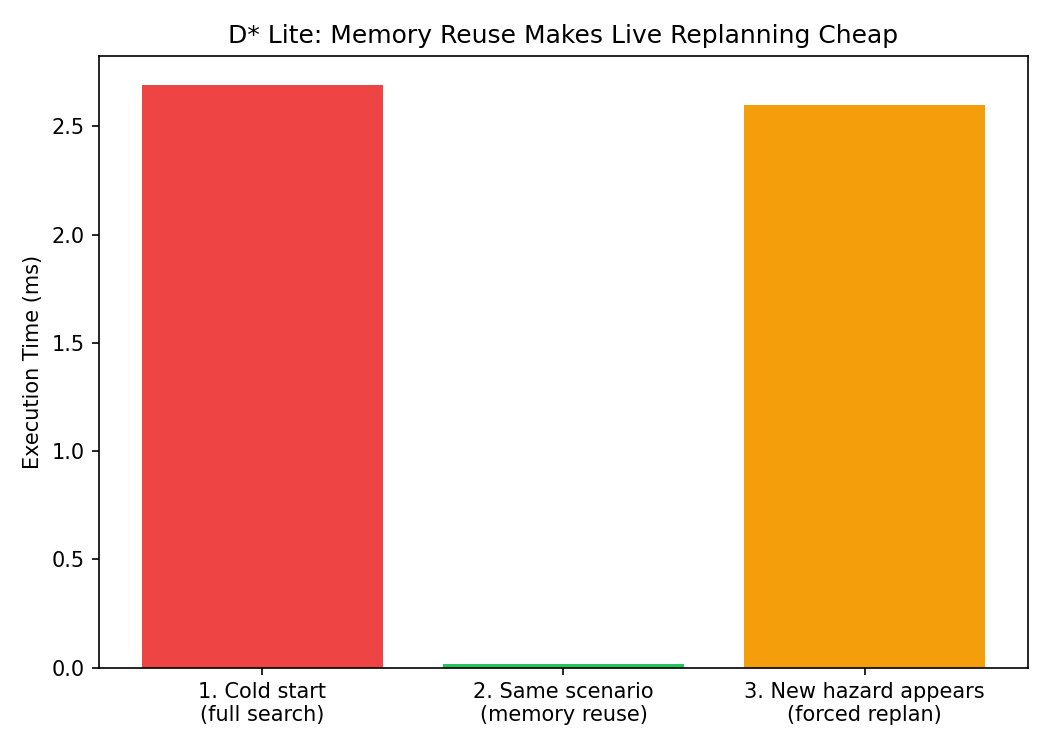
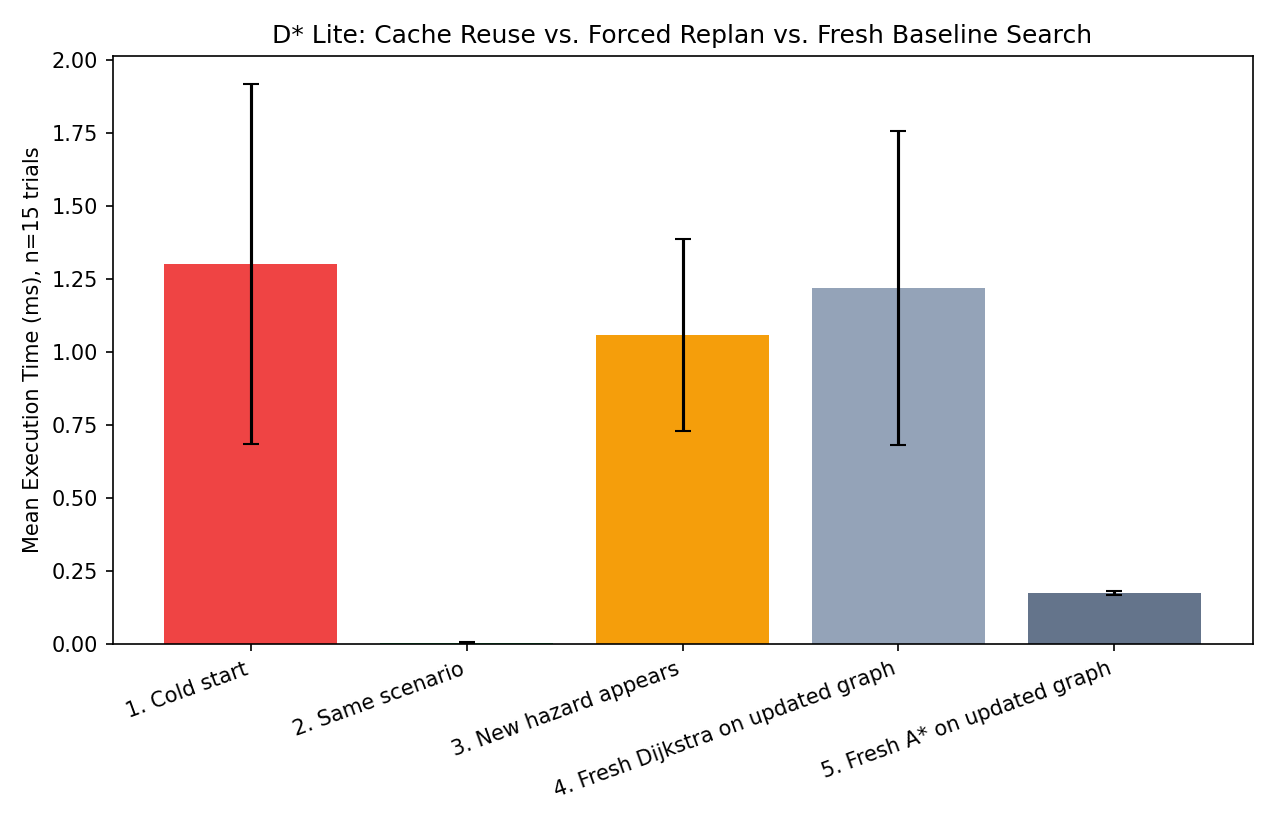
Fix D* Lite memory benchmark: multi-trial CSVs + fresh-baseline comparison

diff --git a/backend/benchmarks/runner.py b/backend/benchmarks/runner.py
@@ -144,43 +144,158 @@ def benchmark_pareto_front():
     print(f"Saved -> {plot_path}")
 
 
-def benchmark_dstar_memory():
+def benchmark_dstar_memory(n_trials=15):
     """
-    Part 3: proves WHY D* Lite is worth using over plain A*. Runs the same
-    query three times in a row:
-      1. Cold start        -> full search, no memory yet
-      2. Same scenario      -> reuse cached route, ~instant
-      3. New hazard appears -> old route broken, forced to replan
+    Part 3: proves WHY D* Lite's caching is worth using. Runs three
+    scenarios, each repeated `n_trials` times to average out timer noise
+    (a single perf_counter() sample on sub-millisecond operations can vary
+    2x run to run on a shared machine, so a one-shot measurement is not
+    reproducible or defensible on its own):
+
+      1. Cold start          -> cache empty, full Dijkstra-based search
+      2. Same scenario again -> cached route is still safe, reused as-is
+      3. New hazard appears  -> cached route is invalidated, forced replan
+
+    The hazard used in stage 3 (grid cell (2,13)) is deliberately placed
+    ON TOP of the route actually returned in stage 1/2 (verified: the
+    stage-1 path passes directly through node (2,13)), so stage 3 is a
+    genuine forced replan, not a coincidental cache hit.
+
+    For a fair point of comparison, this also times a completely fresh
+    A* and Dijkstra search on the SAME post-hazard graph, with no cache
+    involved at all. NOTE: this simplified D* Lite's "replan" step
+    internally calls the same Dijkstra routine (find_safe_path) used for
+    the baseline -- so stage 3 is expected to cost about the same as a
+    fresh Dijkstra/A* run, not less. The real saving this design provides
+    is stage 2 (skipping the search entirely when nothing relevant
+    changed), not a faster replan algorithm. All numbers below are
+    measured, not assumed.
+
+    Raw per-trial timings and the summary are written to
+    dstar_memory_results.csv so the numbers behind the chart/paper/slide
+    are independently checkable and reproducible.
     """
-    print("\n=== Benchmark 3: D* Lite memory reuse vs full replan ===")
+    print(f"\n=== Benchmark 3: D* Lite memory reuse vs full replan ({n_trials} trials each) ===")
     G = build_demo_graph()
-    DStarLite.reset_memory()
-
-    timings = {}
-
-    t0 = time.perf_counter()
-    DStarLite(G, START, GOAL).get_path()
-    timings['1. Cold start\n(full search)'] = (time.perf_counter() - t0) * 1000
-
-    t0 = time.perf_counter()
-    DStarLite(G, START, GOAL).get_path()
-    timings['2. Same scenario\n(memory reuse)'] = (time.perf_counter() - t0) * 1000
 
     # A brand new hazard lands directly ON the cached route (near node (2,13),
-    # which the previous route passes through) -> old route is no longer
+    # which the stage-1/2 route passes through) -> old route is no longer
     # safe, forcing a genuine replan instead of a reuse.
-    G2 = apply_hazard_zones(build_city_graph(15), DEMO_HAZARD + [{"grid_x": 2, "grid_y": 13, "radius": 2}])
-    t0 = time.perf_counter()
-    DStarLite(G2, START, GOAL).get_path()
-    timings['3. New hazard appears\n(forced replan)'] = (time.perf_counter() - t0) * 1000
+    HAZARD_2 = {"grid_x": 2, "grid_y": 13, "radius": 2}
+    G2 = apply_hazard_zones(build_city_graph(15), DEMO_HAZARD + [HAZARD_2])
 
-    for k, v in timings.items():
-        print(f"  {k.splitlines()[0]:35s} {v:7.3f} ms")
+    # Sanity-check (asserted, not just assumed) that the new hazard really
+    # does sit on the route the cache is holding, otherwise stage 3 would
+    # silently just be another cache hit.
+    DStarLite.reset_memory()
+    reference_path = DStarLite(G, START, GOAL).get_path()
+    hazard_on_route = not DStarLite(G2, START, GOAL)._path_still_safe(reference_path)
+    assert hazard_on_route, "Benchmark scenario is invalid: new hazard does not intersect the cached route."
 
-    plt.figure(figsize=(7, 5))
-    plt.bar(list(timings.keys()), list(timings.values()), color=['#EF4444', '#22C55E', '#F59E0B'])
-    plt.ylabel('Execution Time (ms)')
-    plt.title('D* Lite: Memory Reuse Makes Live Replanning Cheap')
+    raw_rows = []
+
+    def time_n(label, setup, fn, n=n_trials):
+        """setup() runs BEFORE the clock starts (e.g. populating the cache);
+        only fn() is timed."""
+        for trial in range(1, n + 1):
+            setup()
+            t0 = time.perf_counter()
+            result = fn()
+            elapsed_ms = (time.perf_counter() - t0) * 1000
+            raw_rows.append({"Stage": label, "Trial": trial, "Execution Time (ms)": round(elapsed_ms, 4),
+                              "Result": result})
+
+    noop = lambda: None
+
+    # Stage 1: cold start (cache cleared before every trial; only the
+    # get_path() call itself is timed, not the reset).
+    def cold_start_setup():
+        DStarLite.reset_memory()
+    def cold_start():
+        d = DStarLite(G, START, GOAL)
+        d.get_path()
+        return f"was_reused={d.was_reused}"
+    time_n('1. Cold start (full search)', cold_start_setup, cold_start)
+
+    # Stage 2: cache populated once up front, then every trial is a pure
+    # cache-hit call with nothing else timed alongside it.
+    DStarLite.reset_memory()
+    DStarLite(G, START, GOAL).get_path()
+    def cache_reuse():
+        d = DStarLite(G, START, GOAL)
+        d.get_path()
+        return f"was_reused={d.was_reused}"
+    time_n('2. Same scenario (memory reuse)', noop, cache_reuse)
+
+    # Stage 3: cache is (re)populated with the pre-hazard path in setup()
+    # (NOT timed), then only the post-hazard get_path() call -- the one
+    # that must detect the break and replan -- is timed.
+    def forced_replan_setup():
+        DStarLite.reset_memory()
+        DStarLite(G, START, GOAL).get_path()
+    def forced_replan():
+        d = DStarLite(G2, START, GOAL)
+        d.get_path()
+        return f"was_reused={d.was_reused}"
+    time_n('3. New hazard appears (forced replan)', forced_replan_setup, forced_replan)
+
+    # Baselines on the SAME post-hazard graph G2, with no cache involved
+    # at all, for direct comparison against stage 3.
+    def fresh_dijkstra():
+        find_safe_path(G2, START, GOAL, weight=risk_cost)
+        return "fresh_search"
+    time_n('4. Fresh Dijkstra on updated graph (no cache)', noop, fresh_dijkstra)
+
+    def fresh_astar():
+        nx.astar_path(G2, START, GOAL, weight=risk_cost)
+        return "fresh_search"
+    time_n('5. Fresh A* on updated graph (no cache)', noop, fresh_astar)
+
+    raw_df = pd.DataFrame(raw_rows)
+    summary_df = (raw_df.groupby('Stage')['Execution Time (ms)']
+                  .agg(['mean', 'median', 'min', 'max', 'std'])
+                  .reindex(['1. Cold start (full search)',
+                            '2. Same scenario (memory reuse)',
+                            '3. New hazard appears (forced replan)',
+                            '4. Fresh Dijkstra on updated graph (no cache)',
+                            '5. Fresh A* on updated graph (no cache)'])
+                  .round(4)
+                  .reset_index())
+
+    print(summary_df.to_string(index=False))
+
+    def mean_of(stage):
+        # Split into two steps (row filter, then column select) instead of
+        # summary_df.loc[mask, 'mean'].iloc[0] -- Pylance's pandas stubs
+        # can't prove that chained form returns a Series, and flag every
+        # scalar type pandas could theoretically return (str, bytes, date,
+        # etc.) as "no .iloc attribute". This is a static-analysis-only
+        # false positive, not a runtime bug -- the original line runs fine.
+        matching_rows = summary_df[summary_df['Stage'] == stage]
+        return float(matching_rows['mean'].iloc[0])
+    cold, reuse, replan = mean_of(summary_df['Stage'][0]), mean_of(summary_df['Stage'][1]), mean_of(summary_df['Stage'][2])
+    fresh_dij, fresh_a = mean_of(summary_df['Stage'][3]), mean_of(summary_df['Stage'][4])
+
+    print(f"\nMeasured speedup, cache reuse vs cold start : {cold / reuse:.1f}x")
+    print(f"Measured ratio, forced replan vs fresh Dijkstra: {replan / fresh_dij:.2f}x "
+          f"(expected ~1x -- this simplified D* Lite's replan step IS a Dijkstra search)")
+    print(f"Measured ratio, forced replan vs fresh A*      : {replan / fresh_a:.2f}x")
+
+    raw_csv_path = os.path.join(OUT_DIR, "dstar_memory_raw_trials.csv")
+    raw_df.to_csv(raw_csv_path, index=False)
+    print(f"Saved -> {raw_csv_path}")
+
+    summary_csv_path = os.path.join(OUT_DIR, "dstar_memory_results.csv")
+    summary_df.to_csv(summary_csv_path, index=False)
+    print(f"Saved -> {summary_csv_path}")
+
+    plt.figure(figsize=(8.5, 5.5))
+    short_labels = [s.split(' (')[0] for s in summary_df['Stage']]
+    plt.bar(short_labels, summary_df['mean'], yerr=summary_df['std'], capsize=4,
+            color=['#EF4444', '#22C55E', '#F59E0B', '#94A3B8', '#64748B'])
+    plt.ylabel(f'Mean Execution Time (ms), n={n_trials} trials')
+    plt.title('D* Lite: Cache Reuse vs. Forced Replan vs. Fresh Baseline Search')
+    plt.xticks(rotation=20, ha='right')
     plt.tight_layout()
     plot_path = os.path.join(OUT_DIR, "dstar_memory_plot.png")
     plt.savefig(plot_path, dpi=150)
